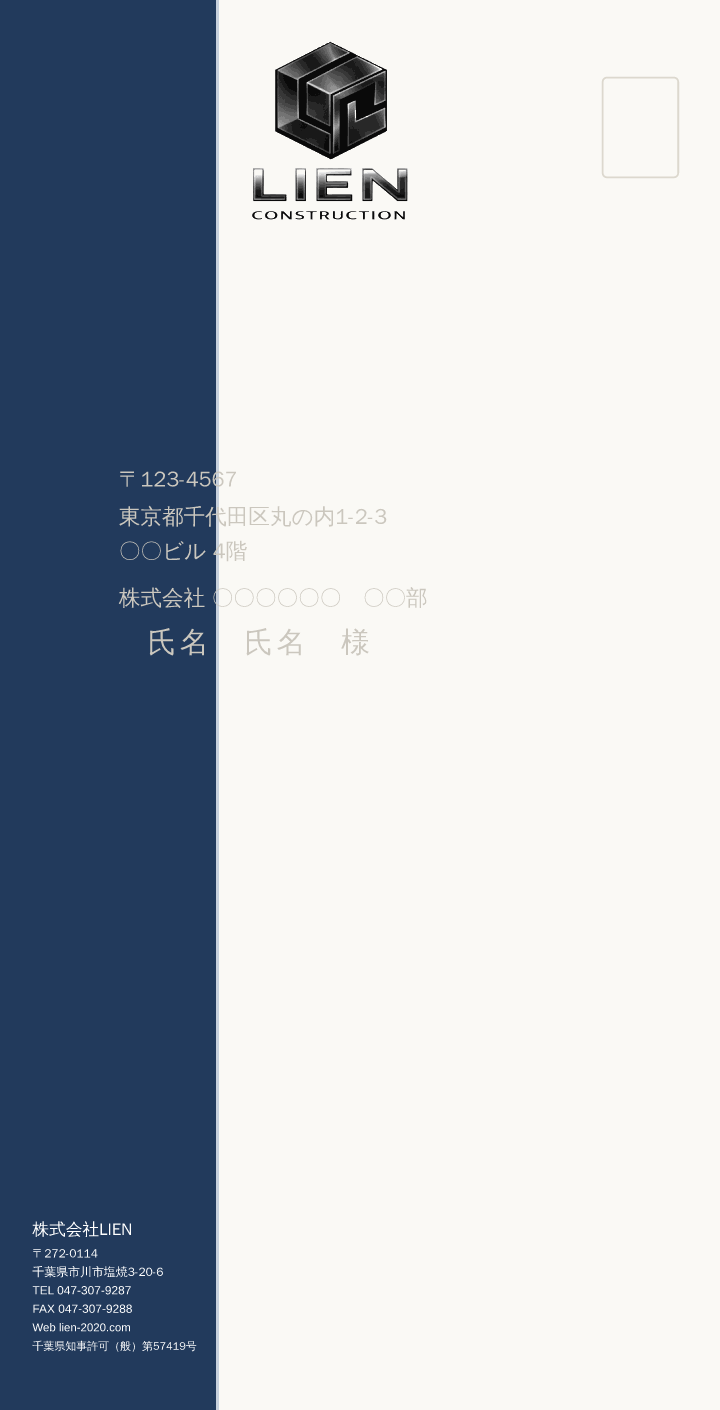
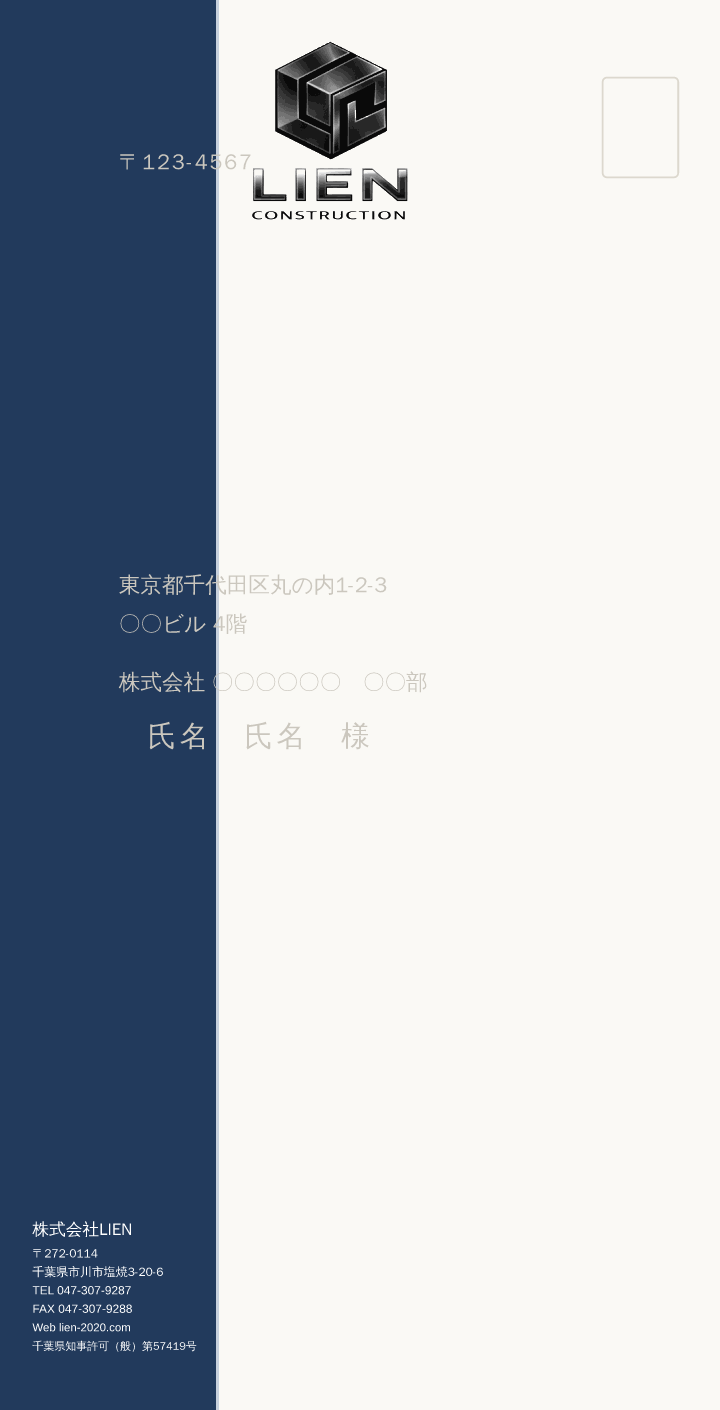
Recipient layout: postal code at top, name/address centred
- Mockup guide and Word template now place 〒 near the top of the page and
  the recipient name/address block in the centre (small top margin + large
  spacing after the postal-code paragraph).
- Regenerated Word doc (validated) and previews.

https://claude.ai/code/session_01MJaxTknHng2Rk6VQiM6LMA

diff --git a/design/generator/build-word.py b/design/generator/build-word.py
@@ -96,13 +96,15 @@ def run(text, sz, bold=False):
 def para(inner, after):
     return f'<w:p><w:pPr><w:spacing w:after="{after}"/></w:pPr>{inner}</w:p>'
 
-RCP = [('〒　　-　　　　', 24), ('（ご住所）', 24), ('（会社名・部署名）', 24), ('（ご担当者名）　様', 32)]
+POSTAL = ('〒　　-　　　　', 24)                       # postal code — top of page
+NAME = [('（ご住所）', 24), ('（会社名・部署名）', 24), ('（ご担当者名）　様', 32)]  # 宛名 — centre
 
-def section(img, sectpr=None):
-    out = []
-    for i, (t, sz) in enumerate(RCP):
-        inner = (img if i == 0 else '') + run(t, sz, bold=(sz >= 32))
-        out.append(para(inner, 160 if sz >= 32 else 90))
+def section(img, gap, sectpr=None):
+    # postal code at the top (carries the background image), then a large gap
+    out = [para(img + run(POSTAL[0], POSTAL[1]), gap)]
+    # recipient name/address, centred down the page
+    for t, sz in NAME:
+        out.append(para(run(t, sz, bold=(sz >= 32)), 180 if sz >= 32 else 100))
     if sectpr:
         out.append(f'<w:p><w:pPr>{sectpr}</w:pPr></w:p>')
     return ''.join(out)
@@ -114,13 +116,15 @@ def sectpr(w, h, top, right, bottom, left):
       '<w:cols w:space="720"/><w:docGrid w:type="lines" w:linePitch="360"/></w:sectPr>')
 
 # twips = mm * 1440 / 25.4 ;  EMU = mm * 36000
-KAKU2 = sectpr(13606, 18822, 6236, 1134, 3290, 2041)   # 240x332, recipient ~110/36mm
-CHOKEI3 = sectpr(6803, 13323, 4422, 567, 2381, 1020)   # 120x235, recipient ~78/18mm
+# small top margin -> postal code near the top; gap pushes 宛名 to the centre
+KAKU2 = sectpr(13606, 18822, 2268, 1134, 3290, 2041)   # 240x332, 〒~40mm top
+CHOKEI3 = sectpr(6803, 13323, 1587, 567, 2381, 1020)   # 120x235, 〒~28mm top
+GAP_KAKU2, GAP_CHOKEI3 = 5600, 4000                    # spacing after 〒 (twips)
 img1 = anchor('rId100', 8640000, 11952000, 1, 'bg-kaku2')
 img2 = anchor('rId101', 4320000, 8460000, 2, 'bg-chokei3')
 
 document = ('<?xml version="1.0" encoding="UTF-8" standalone="yes"?>' + DOC_ROOT + '<w:body>'
-  + section(img1, KAKU2) + section(img2) + CHOKEI3 + '</w:body></w:document>')
+  + section(img1, GAP_KAKU2, KAKU2) + section(img2, GAP_CHOKEI3) + CHOKEI3 + '</w:body></w:document>')
 
 # ---- write package ----------------------------------------------------------
 parts = {
